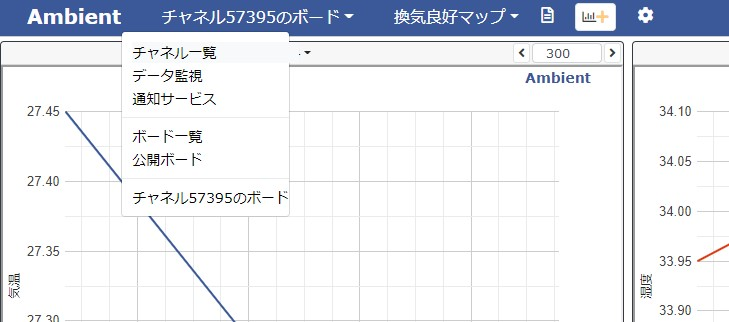
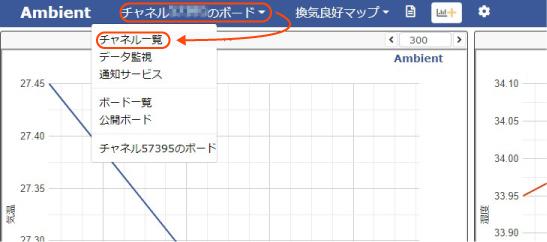
add contents to ambient settings

diff --git a/ambient/04-02-export-data.md b/ambient/04-02-export-data.md
@@ -4,3 +4,61 @@ title: データのダウンロード
 parent: Ambientの設定方法
 nav_order: 2
 ---
+
+# データのダウンロード
+Ambientから記録しているデータをCSV形式でダウンロードすることが出来ます。<br>CSVでダウンロードすればExcelでデータを編集できるようになるので、データ分析はもちろん、資料への転用もやりやすくなります。
+
+## CSVデータのダウンロード
+まずは、ボードの名前を変えた時と同じくボード名をクリックしてメニューを表示させます。
+
+ただ、ここでボード一覧ではなく、**"チャネル一覧"** をクリックしてください。
+
+<img src="..\images\ambient_012.jpg" alt="hi" class="inline" border="1"/>
+
+そうすると、自分のアカウントが受け取っているチャネル(データの入り口)のリストが表示されます。
+
+(現状では、チャネルが１つしか表示されないはずです。)
+
+
+そのチャネルの右側にあるダウンロードボタンをクリックしてください。
+
+<img src="..\images\ambient_017.jpg" alt="hi" class="inline" border="1"/>
+
+
+すると、別ウィンドウが表示されるので、ダウンロードしたい日時を入力すると、<br>CSVデータがダウンロードされます。
+
+
+## CSVデータをExcelで見てみる
+ダウンロードしたデータをExcelで開いてみると、下のように表示されます。
+
+
+A列がデータが送信された日時なのですが、表示がおかしくなっているので、設定します。
+
+<img src="..\images\ambient_013.jpg" alt="hi" class="inline" border="1"/>
+
+
+A列を選択して右クリック、メニューから **"セルの書式設定"** をクリックします。
+
+<img src="..\images\ambient_014.jpg" alt="hi" class="inline" border="1"/>
+
+書式設定のウィンドウで、表示形式タブに行き、
+
+
+分類：日付の中から、時間付きの日付を選択して、
+
+
+OKボタンを押して、設定を保存します。
+
+<img src="..\images\ambient_018.jpg" alt="hi" class="inline" border="1"/>
+
+
+すると、先のデータが以下のように表示されます。
+
+
+<img src="..\images\ambient_015.jpg" alt="hi" class="inline" border="1"/>
+
+
+日時も正しく表示されるようになって、見やすくなりました。
+
+
+あとは、Ｅxcelデータとして別名保存し、従来のシート同様に編集が行うことが出来ます。

diff --git a/04-ambient-settings.md b/04-ambient-settings.md
@@ -5,8 +5,6 @@ nav_order: 5
 has_children: true
 ---
 
-# <<< 注：現在このページは、編集中です >>>
-
 # Ambientの設定方法
 M5Stickからインターネットに送られたデータは、Ambient(アンビエント)というIoT向けデータ表示サイトへ送られています。
 
